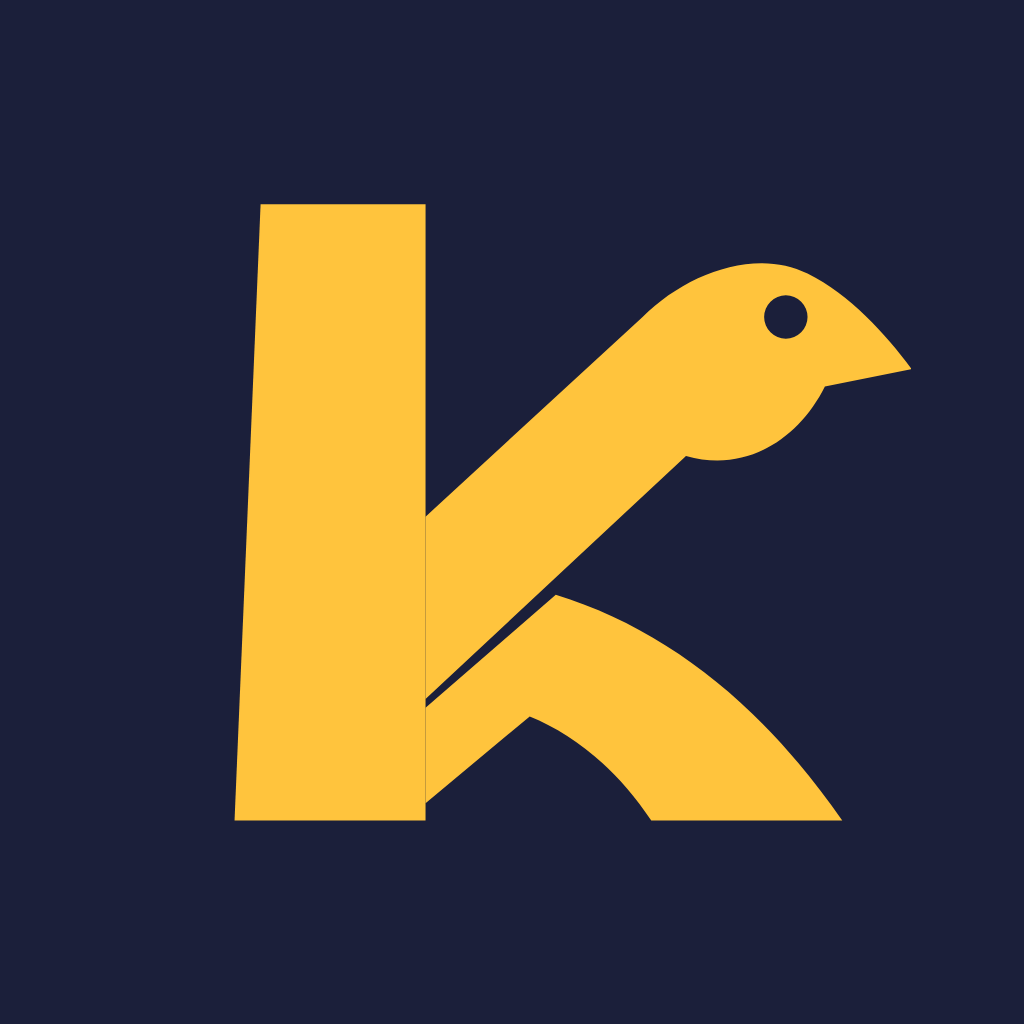
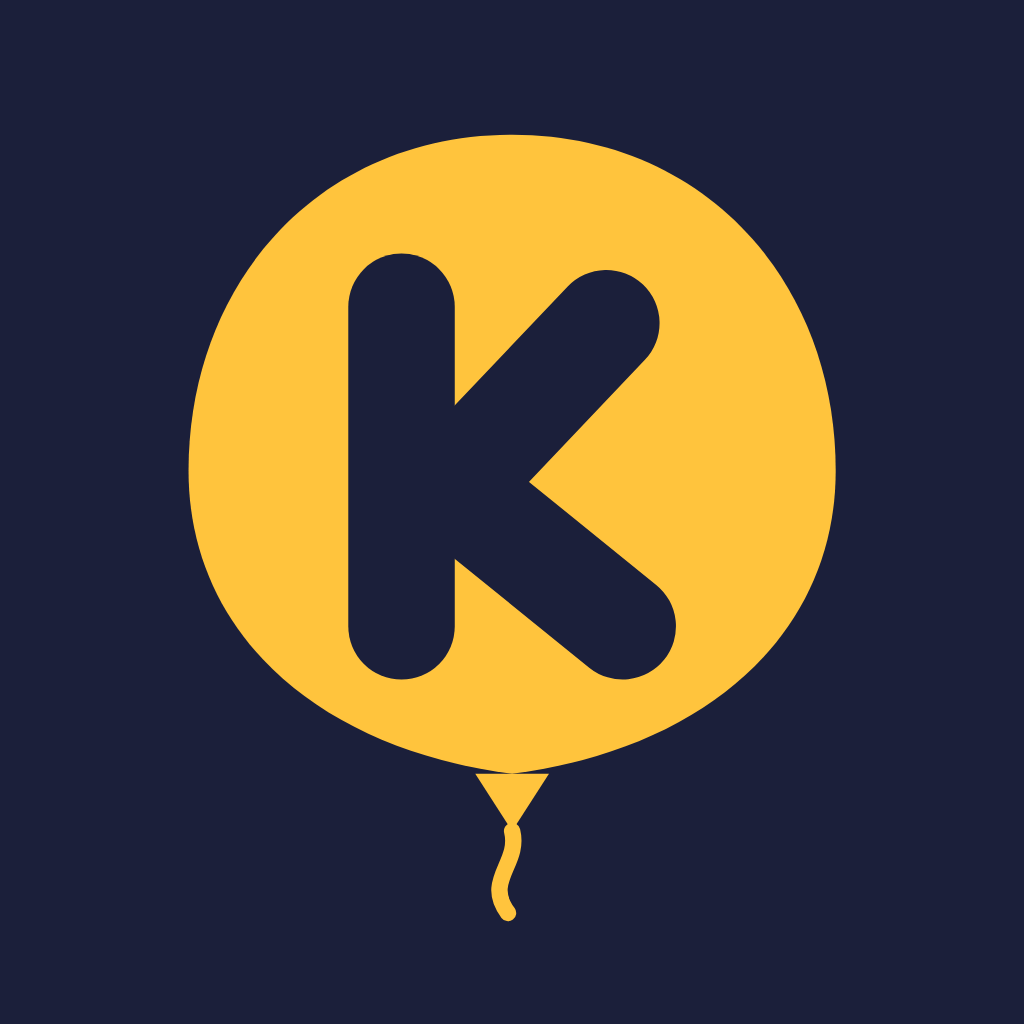
Komyx mark: balloon with the K knocked out, knot and string
Replaces the bird-K. The mark is a round balloon filled with currentColor, the K cut out via
mask so the background shows through, plus knot and a curly string. Applied to the landing
header, login, favicon (app/icon.svg, apple-icon), PWA icons and every Expo icon/splash asset.

Changed region(s): [[0.1562, 0.125, 0.9062, 0.9062]]

diff --git a/src/components/brand/komyx-logo.tsx b/src/components/brand/komyx-logo.tsx
@@ -1,17 +1,28 @@
-import type { CSSProperties } from "react";
+import { useId, type CSSProperties } from "react";
 
 /**
- * Komyx mark: a K whose arms are an araponga (the bird in the AraLabs "A"): neck and head
- * on the upper arm, curved wing on the lower one. Fills with currentColor so it works on
- * ink, paper or the sun yellow. Source of truth also in public/brand/komyx-mark.svg.
+ * Komyx mark: a balloon with the K knocked out, knot and string. Fills with currentColor; the K
+ * shows whatever is behind the mark. Source of truth also in public/brand/komyx-mark.svg.
  */
 export function KomyxMark({ className = "", style, title = "Komyx" }: { className?: string; style?: CSSProperties; title?: string }) {
+  const id = useId();
+  const maskId = `komyx-k-${id.replace(/[^a-zA-Z0-9]/g, "")}`;
   return (
-    <svg viewBox="0 0 184 170" className={className} style={style} role="img" aria-label={title} xmlns="http://www.w3.org/2000/svg">
-      <g fill="currentColor" fillRule="evenodd">
-        <path d="M34 14 L72 14 L72 156 L28 156 Z" />
-        <path d="M72 86 L122 40 C132 30 148 24 160 30 C170 35 178 44 184 52 L164 56 C158 68 146 76 132 72 L72 128 Z M150 40 a5 5 0 1 0 10 0 a5 5 0 1 0 -10 0 Z" />
-        <path d="M72 130 L102 104 C128 112 150 130 168 156 L124 156 C116 144 106 136 96 132 L72 152 Z" />
+    <svg viewBox="0 0 190 200" className={className} style={style} role="img" aria-label={title} xmlns="http://www.w3.org/2000/svg">
+      <defs>
+        <mask id={maskId}>
+          <rect width="190" height="200" fill="#fff" />
+          <g fill="none" stroke="#000" strokeWidth="26" strokeLinecap="round" strokeLinejoin="round">
+            <path d="M68 50 V128" />
+            <path d="M80 94 L122 128" />
+            <path d="M80 94 L118 54" />
+          </g>
+        </mask>
+      </defs>
+      <g fill="currentColor">
+        <path mask={`url(#${maskId})`} d="M95 8 C 142 8 174 44 174 90 C 174 130 142 158 95 164 C 48 158 16 130 16 90 C 16 44 48 8 95 8 Z" />
+        <path d="M86 164 L95 178 L104 164 Z" />
+        <path fill="none" stroke="currentColor" strokeWidth="4" strokeLinecap="round" d="M95 178 C 97 186 88 190 94 198" />
       </g>
     </svg>
   );
